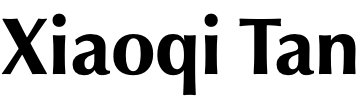
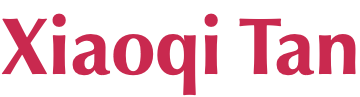
2222

Changed region(s): [[0.0, 0.1237, 0.6111, 0.9897], [0.6417, 0.1856, 1.0, 0.7732], [0.55, 0.1237, 0.6111, 0.2784]]

diff --git a/static/css/style.css b/static/css/style.css
@@ -16,7 +16,7 @@ body {
   padding: 5px;
   border-radius: 5px;
 }
-.menu, .article-meta, footer { text-align: left; }
+.menu, .article-meta, footer { text-align: center; }
 .title { font-size: 1.1em; }
 footer a { text-decoration: none; }
 hr {
@@ -75,19 +75,19 @@ div.abstract    {
 
 /* unvisited link */
 a:link {
-  color: darkblue;
+  color: #BB133E;
   text-decoration: none;
 }
 
 /* visited link */
 a:visited {
-  color: darkblue;
+  color: #BB133E;
   text-decoration: none;
 }
 
 /* mouse over link */
 a:hover {
-  color: pink;
+  color: #00204E;
   text-decoration: none;
 }
 

diff --git a/layouts/partials/header.html b/layouts/partials/header.html
@@ -27,14 +27,16 @@
 
   <body>
     
+
+  
   <nav>
     <ul class="menu">
+      <header>
+        <img src="/img/uoft.png" style="max-width:13%;min-width:120px; margin: -10px 0px; float:left;" />
+      </header>  
       {{ range .Site.Menus.main }}
       <li><a href="{{ .URL | relURL }}">{{ .Name }}</a></li>
       {{ end }}
     </ul>
-    <head>
-      <img src="/img/uoft.png" style="max-width:12%;min-width:100px; margin: -50px 120px; float:right;">
-    </head>
     <hr/>
   </nav>

diff --git a/content/_index.md b/content/_index.md
@@ -9,11 +9,11 @@ title: Home
 
 I am a postdoc at [University of Toronto](https://utoronto.ca), working with Prof. [Alberto Leon-Garcia](https://www.ece.utoronto.ca/people/leon-garcia-a/). Prior to my current position, I received my Ph.D. from [Hong Kong University of Science and Technology (HKUST)](https://www.ust.hk/) in 2018, advised by Prof. [Danny H.K. Tsang](https://eetsang.home.ece.ust.hk/). At HKUST, I was affiliated with the [C2E Group](http://c2e.ece.ust.hk/main/). From October 2015 to April 2016, I was hosted by Prof. [Na (Lina) Li](https://nali.seas.harvard.edu/) as a visiting research fellow at the [School of Engineering and Applied Science](https://www.seas.harvard.edu/), [Harvard University](https://harvard.edu).  
 
-<span style="color:#BB133E">**`Email`**</span>: xiaoqi.tan [at] utoronto.ca\\
-<span style="color:#BB133E">**`Office`**</span>: Room 7137, Bahen Centre for Information Technology
+<span style="color:#00204E">**Email**</span>: xiaoqi.tan [at] utoronto.ca\\
+<span style="color:#00204E">**Office**</span>: Room 7137, Bahen Centre for Information Technology
 
-<span style="color:#BB133E">**`Links`**</span>: [Google Scholar](https://scholar.google.com/citations?user=drR_WcAAAAAJ&hl=en&sortby=pubdate) | [DBLP](https://dblp.org/pid/139/4363.html) \\
-<span style="color:#BB133E">**`Pronunciation`**</span>: My first name "Xiaoqi" is pronounced as "Shiao-Chee".
+<span style="color:#00204E">**Links**</span>: [Google Scholar](https://scholar.google.com/citations?user=drR_WcAAAAAJ&hl=en&sortby=pubdate) | [DBLP](https://dblp.org/pid/139/4363.html) \\
+<span style="color:#00204E">**Pronunciation**</span>: My first name "Xiaoqi" is pronounced as "Shiao-Chee".
 
 
 
